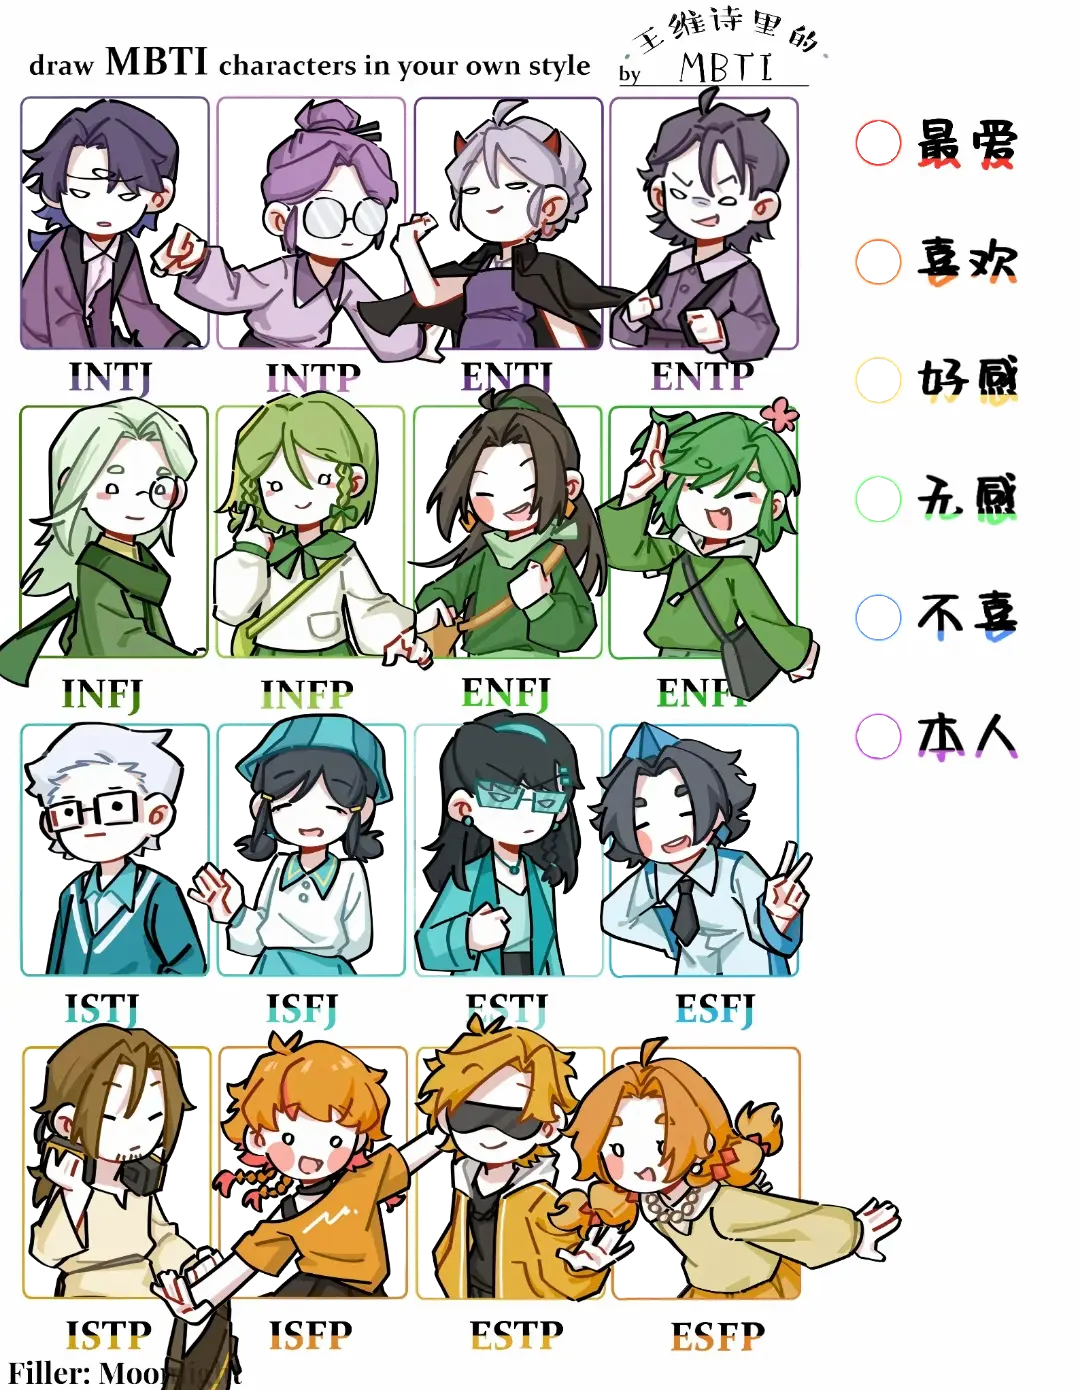
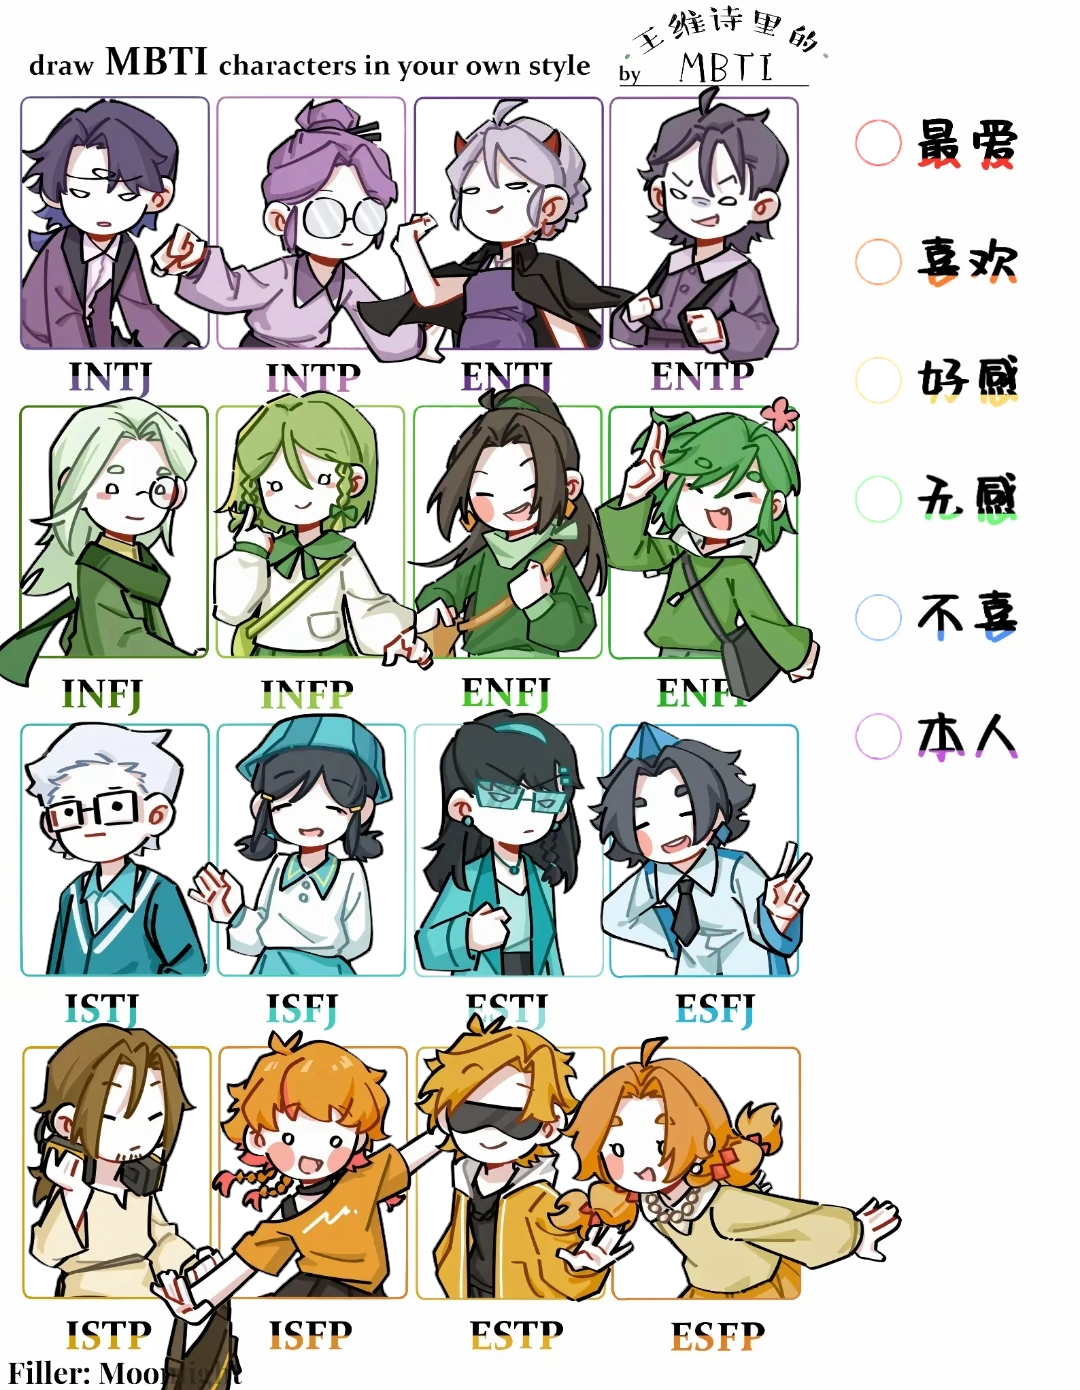
修改了图片和样式文件

Changed region(s): [[0.3972, 0.3712, 0.4278, 0.4022], [0.2139, 0.8353, 0.2444, 0.8662]]

diff --git a/public/main.js b/public/main.js
@@ -325,7 +325,7 @@ function cloneContainerContent(tempContainer) {
 
 /**
  * 执行截图操作
- * 使用 html2canvas 库生成高质量图片
+ * 使用 html2canvas 库生成图片
  * @function performScreenshot
  * @param {HTMLElement} tempContainer - 临时容器
  * @returns {Promise} 截图完成的 Promise 对象

diff --git a/public/main.css b/public/main.css
@@ -163,7 +163,7 @@ body {
 
 .information {
     color: white;
-    font-size: 5px;
+    font-size: 8px;
     white-space: nowrap;
 }
 
